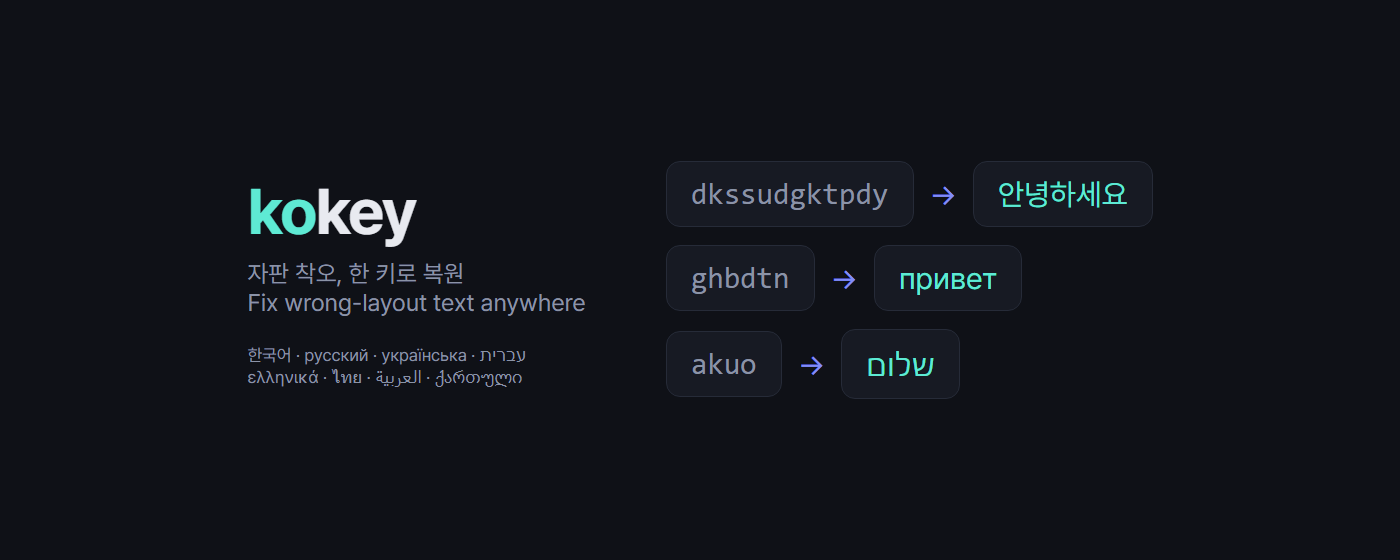
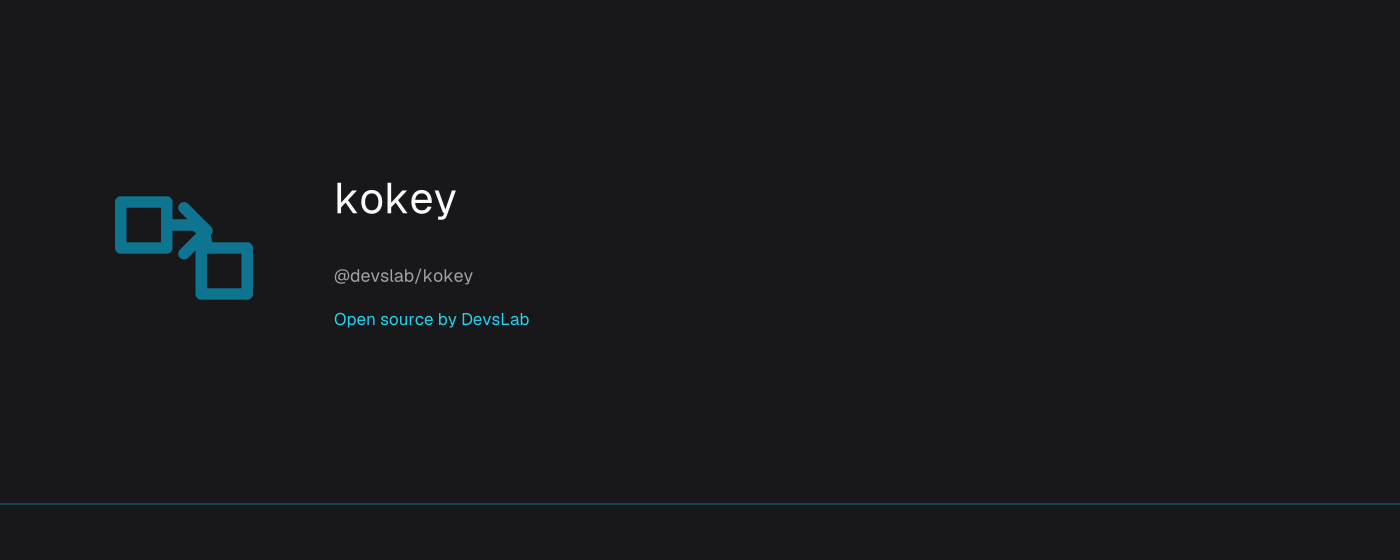
feat: apply DevsLab OSS identity to kokey (#33)
* feat: apply DevsLab OSS identity to kokey

* fix: enforce kokey OSS brand gates

* fix: make kokey verification portable

* fix: keep Kokey type checks portable

diff --git a/site/index.html b/site/index.html
@@ -5,6 +5,25 @@
 <meta name="viewport" content="width=device-width, initial-scale=1">
 <title>kokey — 자판 오입력 복원 · wrong-keyboard-layout converter (한글·русский·עברית·ไทย…)</title>
 <meta name="description" content="kokey: restore text typed with the wrong keyboard layout. Korean Dubeolsik built in + Russian, Ukrainian, Hebrew, Greek, Thai, Arabic, Georgian. zero-dependency TypeScript.">
+<meta name="theme-color" content="#0f1117">
+<link rel="canonical" href="https://devslab-kr.github.io/kokey/">
+<link rel="icon" href="favicon.ico" sizes="32x32">
+<link rel="icon" href="favicon.svg" type="image/svg+xml">
+<link rel="apple-touch-icon" href="apple-touch-icon.png">
+<meta property="og:type" content="website">
+<meta property="og:site_name" content="DevsLab Open Source">
+<meta property="og:url" content="https://devslab-kr.github.io/kokey/">
+<meta property="og:title" content="kokey — wrong-keyboard-layout converter">
+<meta property="og:description" content="Restore text typed with the wrong keyboard layout. Korean, Russian, Hebrew, Greek, Thai, Arabic, Ukrainian, Georgian ↔ QWERTY.">
+<meta property="og:image" content="https://devslab-kr.github.io/kokey/og.png">
+<meta property="og:image:width" content="1200">
+<meta property="og:image:height" content="630">
+<meta property="og:image:alt" content="kokey O05 — two key surfaces connected by a correction path. Open source by DevsLab.">
+<meta name="twitter:card" content="summary_large_image">
+<meta name="twitter:title" content="kokey — wrong-keyboard-layout converter">
+<meta name="twitter:description" content="Restore text typed with the wrong keyboard layout across eight supported layouts.">
+<meta name="twitter:image" content="https://devslab-kr.github.io/kokey/og.png">
+<meta name="twitter:image:alt" content="kokey O05 — two key surfaces connected by a correction path. Open source by DevsLab.">
 <style>
   :root {
     --bg: #0f1117; --panel: #171a23; --line: #262b38;
@@ -17,6 +36,22 @@
     line-height: 1.6;
   }
   main { max-width: 860px; margin: 0 auto; padding: 48px 20px 80px; }
+  .project-hero { overflow: hidden; padding-bottom: 32px; }
+  .hero-atmosphere { position: relative; isolation: isolate; }
+  .hero-atmosphere > [aria-hidden="true"].hero-atmosphere__glow {
+    position: absolute; inset: 0; z-index: 0; pointer-events: none;
+    background: radial-gradient(ellipse 46% 68% at 86% 22%, rgb(34 211 238 / .10), transparent 72%);
+  }
+  [data-atmosphere="project"] > [aria-hidden="true"].hero-atmosphere__glow::after {
+    content: ""; position: absolute; inset: 0; pointer-events: none; opacity: .08;
+    background: radial-gradient(ellipse 30% 42% at 86% 22%, rgb(251 191 36), transparent 72%);
+  }
+  .hero-atmosphere > :not([aria-hidden="true"].hero-atmosphere__glow) { position: relative; z-index: 1; }
+  .brand-line { display: flex; align-items: center; gap: 8px; margin-bottom: 14px; }
+  .brand-line a { display: inline-flex; align-items: center; color: var(--text); font-size: 14px; font-weight: 700; }
+  .brand-line img { width: 24px; height: 24px; margin-right: 7px; }
+  .oss-endorsement { color: var(--dim); font-size: 13px; margin-bottom: 10px; }
+  .oss-endorsement a { color: var(--accent); font-weight: 600; }
   h1 { font-size: 44px; letter-spacing: -1px; }
   h1 .accent { color: var(--accent); }
   .tagline { color: var(--dim); font-size: 18px; margin: 8px 0 4px; }
@@ -57,36 +92,52 @@
   footer { margin-top: 64px; color: var(--dim); font-size: 13px; }
   .ext { margin: -18px 0 30px; padding: 12px 16px; font-size: 14px;
     background: var(--panel); border: 1px solid var(--line); border-radius: 10px; }
+  @media (forced-colors: active), print {
+    .hero-atmosphere > [aria-hidden="true"].hero-atmosphere__glow,
+    .hero-atmosphere > [aria-hidden="true"].hero-atmosphere__glow::after { display: none; }
+  }
+  @media (max-width: 260px) {
+    main { padding-inline: 12px; }
+    h1 { overflow-wrap: anywhere; }
+    .langs { gap: 6px 10px; }
+  }
 </style>
 </head>
 <body>
 <main>
-  <h1>ko<span class="accent">key</span></h1>
-  <p class="tagline">한글 · русский · українська · עברית · ελληνικά · ไทย · العربية · ქართული ↔ QWERTY</p>
-  <p class="tagline" data-i18n="tagline">Restore text typed with the wrong keyboard layout · TypeScript-first · zero-dependency</p>
-  <div class="badges">
-    <a href="https://www.npmjs.com/package/@devslab/kokey"><img src="https://img.shields.io/npm/v/%40devslab%2Fkokey" alt="npm"></a>
-    <a href="https://github.com/devslab-kr/kokey/actions/workflows/ci.yml"><img src="https://github.com/devslab-kr/kokey/actions/workflows/ci.yml/badge.svg" alt="CI"></a>
-    <a href="https://github.com/devslab-kr/kokey"><img src="https://img.shields.io/github/stars/devslab-kr/kokey?style=flat" alt="GitHub"></a>
-  </div>
-  <nav class="langs" id="langs" aria-label="Language">
-    <a data-lang="en">English</a>
-    <a data-lang="ko">한국어</a>
-    <a data-lang="ru">Русский</a>
-    <a data-lang="uk">Українська</a>
-    <a data-lang="he">עברית</a>
-    <a data-lang="el">Ελληνικά</a>
-    <a data-lang="th">ไทย</a>
-    <a data-lang="ar">العربية</a>
-    <a data-lang="ka">ქართული</a>
-  </nav>
+  <header class="project-hero hero-atmosphere" data-atmosphere="project">
+    <div class="hero-atmosphere__glow" aria-hidden="true"></div>
+    <div class="project-hero__content">
+      <div class="brand-line"><a href="./" aria-label="kokey home"><img src="favicon.svg" alt="">kokey</a></div>
+      <p class="oss-endorsement">Open source by <a href="https://devslab.kr/brand/open-source/">DevsLab</a> · Registry O05</p>
+      <h1>ko<span class="accent">key</span></h1>
+      <p class="tagline">한글 · русский · українська · עברית · ελληνικά · ไทย · العربية · ქართული ↔ QWERTY</p>
+      <p class="tagline" data-i18n="tagline">Restore text typed with the wrong keyboard layout · TypeScript-first · zero-dependency</p>
+      <div class="badges">
+        <a href="https://www.npmjs.com/package/@devslab/kokey"><img src="https://img.shields.io/npm/v/%40devslab%2Fkokey" alt="npm"></a>
+        <a href="https://github.com/devslab-kr/kokey/actions/workflows/ci.yml"><img src="https://github.com/devslab-kr/kokey/actions/workflows/ci.yml/badge.svg" alt="CI"></a>
+        <a href="https://github.com/devslab-kr/kokey"><img src="https://img.shields.io/github/stars/devslab-kr/kokey?style=flat" alt="GitHub"></a>
+      </div>
+      <nav class="langs" id="langs" aria-label="Language">
+        <a data-lang="en">English</a>
+        <a data-lang="ko">한국어</a>
+        <a data-lang="ru">Русский</a>
+        <a data-lang="uk">Українська</a>
+        <a data-lang="he">עברית</a>
+        <a data-lang="el">Ελληνικά</a>
+        <a data-lang="th">ไทย</a>
+        <a data-lang="ar">العربية</a>
+        <a data-lang="ka">ქართული</a>
+      </nav>
 
-  <p class="ext" data-i18n-html="ext">
-    <b>Browser extension</b> — the same fixes on any site:
-    <a href="https://chromewebstore.google.com/detail/kokey-%E2%80%94-wrong-layout-text/behceldadncjkojneillkiiilldmihln">Chrome</a> ·
-    <a href="https://addons.mozilla.org/firefox/addon/kokey-wrong-layout-text-fixer/">Firefox</a> ·
-    <a href="https://store.whale.naver.com/detail/mgenmihaioegdmifaelfhhdgfonbnchm">Whale</a>
-  </p>
+      <p class="ext" data-i18n-html="ext">
+        <b>Browser extension</b> — the same fixes on any site:
+        <a href="https://chromewebstore.google.com/detail/kokey-%E2%80%94-wrong-layout-text/behceldadncjkojneillkiiilldmihln">Chrome</a> ·
+        <a href="https://addons.mozilla.org/firefox/addon/kokey-wrong-layout-text-fixer/">Firefox</a> ·
+        <a href="https://store.whale.naver.com/detail/mgenmihaioegdmifaelfhhdgfonbnchm">Whale</a>
+      </p>
+    </div>
+  </header>
 
   <h2 data-i18n="demo_h">Live demo — try it yourself</h2>
   <div class="demo">

diff --git a/extension/content.test.ts b/extension/content.test.ts
@@ -191,8 +191,7 @@ describe('options page', () => {
     // an explicit guard BOTH the editor and the deep-link button render and
     // the Firefox/Chrome split silently stops working. Caught in a rendered
     // screenshot, pinned here.
-    // @ts-expect-error @types/node isn't a devDependency here; this test
-    // body runs in node under vitest, where the module resolves fine
+    // @ts-ignore -- @types/node is not a direct dependency; Vitest runs this in Node.
     const fs = await import('node:fs/promises')
     const html: string = await fs.readFile('extension/options.html', 'utf8')
     expect(html).toMatch(/\.shortcut\[hidden\]\s*\{\s*display:\s*none/)
@@ -205,7 +204,7 @@ describe('extension scripts use the promise-based API namespace', () => {
     // .sync.get(...)` resolves to undefined there and every setting silently
     // reads as its default. Each script must go through
     // `globalThis.browser ?? globalThis.chrome`.
-    // @ts-expect-error @types/node isn't a devDependency here
+    // @ts-ignore -- @types/node is not a direct dependency; Vitest runs this in Node.
     const fs = await import('node:fs/promises')
     const files = [
       'background.js',

diff --git a/README.ar.md b/README.ar.md
@@ -1,5 +1,11 @@
 # kokey
 
+<p align="center">
+  <a href="https://devslab.kr/brand/open-source/"><img src="docs/assets/brand/readme-header.png" alt="kokey — Open source by DevsLab" width="100%" /></a>
+</p>
+
+**Open source by [DevsLab](https://devslab.kr/)** · [OSS brand guide](https://devslab.kr/brand/open-source/) · Registry O05
+
 [![npm](https://img.shields.io/npm/v/%40devslab%2Fkokey)](https://www.npmjs.com/package/@devslab/kokey)
 [![CI](https://github.com/devslab-kr/kokey/actions/workflows/ci.yml/badge.svg)](https://github.com/devslab-kr/kokey/actions/workflows/ci.yml)
 ![TypeScript](https://img.shields.io/badge/TypeScript-Ready-3178C6?logo=typescript&logoColor=white)

diff --git a/README.el.md b/README.el.md
@@ -1,5 +1,11 @@
 # kokey
 
+<p align="center">
+  <a href="https://devslab.kr/brand/open-source/"><img src="docs/assets/brand/readme-header.png" alt="kokey — Open source by DevsLab" width="100%" /></a>
+</p>
+
+**Open source by [DevsLab](https://devslab.kr/)** · [OSS brand guide](https://devslab.kr/brand/open-source/) · Registry O05
+
 [![npm](https://img.shields.io/npm/v/%40devslab%2Fkokey)](https://www.npmjs.com/package/@devslab/kokey)
 [![CI](https://github.com/devslab-kr/kokey/actions/workflows/ci.yml/badge.svg)](https://github.com/devslab-kr/kokey/actions/workflows/ci.yml)
 ![TypeScript](https://img.shields.io/badge/TypeScript-Ready-3178C6?logo=typescript&logoColor=white)

diff --git a/README.he.md b/README.he.md
@@ -1,5 +1,11 @@
 # kokey
 
+<p align="center">
+  <a href="https://devslab.kr/brand/open-source/"><img src="docs/assets/brand/readme-header.png" alt="kokey — Open source by DevsLab" width="100%" /></a>
+</p>
+
+**Open source by [DevsLab](https://devslab.kr/)** · [OSS brand guide](https://devslab.kr/brand/open-source/) · Registry O05
+
 [![npm](https://img.shields.io/npm/v/%40devslab%2Fkokey)](https://www.npmjs.com/package/@devslab/kokey)
 [![CI](https://github.com/devslab-kr/kokey/actions/workflows/ci.yml/badge.svg)](https://github.com/devslab-kr/kokey/actions/workflows/ci.yml)
 ![TypeScript](https://img.shields.io/badge/TypeScript-Ready-3178C6?logo=typescript&logoColor=white)

diff --git a/README.ka.md b/README.ka.md
@@ -1,5 +1,11 @@
 # kokey
 
+<p align="center">
+  <a href="https://devslab.kr/brand/open-source/"><img src="docs/assets/brand/readme-header.png" alt="kokey — Open source by DevsLab" width="100%" /></a>
+</p>
+
+**Open source by [DevsLab](https://devslab.kr/)** · [OSS brand guide](https://devslab.kr/brand/open-source/) · Registry O05
+
 [![npm](https://img.shields.io/npm/v/%40devslab%2Fkokey)](https://www.npmjs.com/package/@devslab/kokey)
 [![CI](https://github.com/devslab-kr/kokey/actions/workflows/ci.yml/badge.svg)](https://github.com/devslab-kr/kokey/actions/workflows/ci.yml)
 ![TypeScript](https://img.shields.io/badge/TypeScript-Ready-3178C6?logo=typescript&logoColor=white)

diff --git a/README.md b/README.md
@@ -1,5 +1,11 @@
 # kokey
 
+<p align="center">
+  <a href="https://devslab.kr/brand/open-source/"><img src="docs/assets/brand/readme-header.png" alt="kokey — Open source by DevsLab" width="100%" /></a>
+</p>
+
+**Open source by [DevsLab](https://devslab.kr/)** · [OSS brand guide](https://devslab.kr/brand/open-source/) · Registry O05
+
 [![npm](https://img.shields.io/npm/v/%40devslab%2Fkokey)](https://www.npmjs.com/package/@devslab/kokey)
 [![CI](https://github.com/devslab-kr/kokey/actions/workflows/ci.yml/badge.svg)](https://github.com/devslab-kr/kokey/actions/workflows/ci.yml)
 ![TypeScript](https://img.shields.io/badge/TypeScript-Ready-3178C6?logo=typescript&logoColor=white)

diff --git a/README.ru.md b/README.ru.md
@@ -1,5 +1,11 @@
 # kokey
 
+<p align="center">
+  <a href="https://devslab.kr/brand/open-source/"><img src="docs/assets/brand/readme-header.png" alt="kokey — Open source by DevsLab" width="100%" /></a>
+</p>
+
+**Open source by [DevsLab](https://devslab.kr/)** · [OSS brand guide](https://devslab.kr/brand/open-source/) · Registry O05
+
 [![npm](https://img.shields.io/npm/v/%40devslab%2Fkokey)](https://www.npmjs.com/package/@devslab/kokey)
 [![CI](https://github.com/devslab-kr/kokey/actions/workflows/ci.yml/badge.svg)](https://github.com/devslab-kr/kokey/actions/workflows/ci.yml)
 ![TypeScript](https://img.shields.io/badge/TypeScript-Ready-3178C6?logo=typescript&logoColor=white)

diff --git a/README.th.md b/README.th.md
@@ -1,5 +1,11 @@
 # kokey
 
+<p align="center">
+  <a href="https://devslab.kr/brand/open-source/"><img src="docs/assets/brand/readme-header.png" alt="kokey — Open source by DevsLab" width="100%" /></a>
+</p>
+
+**Open source by [DevsLab](https://devslab.kr/)** · [OSS brand guide](https://devslab.kr/brand/open-source/) · Registry O05
+
 [![npm](https://img.shields.io/npm/v/%40devslab%2Fkokey)](https://www.npmjs.com/package/@devslab/kokey)
 [![CI](https://github.com/devslab-kr/kokey/actions/workflows/ci.yml/badge.svg)](https://github.com/devslab-kr/kokey/actions/workflows/ci.yml)
 ![TypeScript](https://img.shields.io/badge/TypeScript-Ready-3178C6?logo=typescript&logoColor=white)

diff --git a/README.uk.md b/README.uk.md
@@ -1,5 +1,11 @@
 # kokey
 
+<p align="center">
+  <a href="https://devslab.kr/brand/open-source/"><img src="docs/assets/brand/readme-header.png" alt="kokey — Open source by DevsLab" width="100%" /></a>
+</p>
+
+**Open source by [DevsLab](https://devslab.kr/)** · [OSS brand guide](https://devslab.kr/brand/open-source/) · Registry O05
+
 [![npm](https://img.shields.io/npm/v/%40devslab%2Fkokey)](https://www.npmjs.com/package/@devslab/kokey)
 [![CI](https://github.com/devslab-kr/kokey/actions/workflows/ci.yml/badge.svg)](https://github.com/devslab-kr/kokey/actions/workflows/ci.yml)
 ![TypeScript](https://img.shields.io/badge/TypeScript-Ready-3178C6?logo=typescript&logoColor=white)

diff --git a/README.ko.md b/README.ko.md
@@ -1,5 +1,11 @@
 # kokey
 
+<p align="center">
+  <a href="https://devslab.kr/brand/open-source/"><img src="docs/assets/brand/readme-header.png" alt="kokey — DevsLab 오픈소스" width="100%" /></a>
+</p>
+
+**DevsLab 오픈소스** · [OSS 브랜드 가이드](https://devslab.kr/brand/open-source/) · Registry O05
+
 [![npm](https://img.shields.io/npm/v/%40devslab%2Fkokey)](https://www.npmjs.com/package/@devslab/kokey)
 [![CI](https://github.com/devslab-kr/kokey/actions/workflows/ci.yml/badge.svg)](https://github.com/devslab-kr/kokey/actions/workflows/ci.yml)
 ![TypeScript](https://img.shields.io/badge/TypeScript-Ready-3178C6?logo=typescript&logoColor=white)

diff --git a/extension/README.ko.md b/extension/README.ko.md
@@ -1,5 +1,7 @@
 # kokey 브라우저 확장
 
+**DevsLab 오픈소스** · [OSS 브랜드 가이드](https://devslab.kr/brand/open-source/) · Registry O05
+
 어느 사이트에서든 자판 착오 텍스트를 복원 — [kokey](https://github.com/devslab-kr/kokey)
 엔진의 Manifest V3 확장판. 모든 처리는 로컬이며 브라우저 밖으로 아무것도
 나가지 않습니다.
